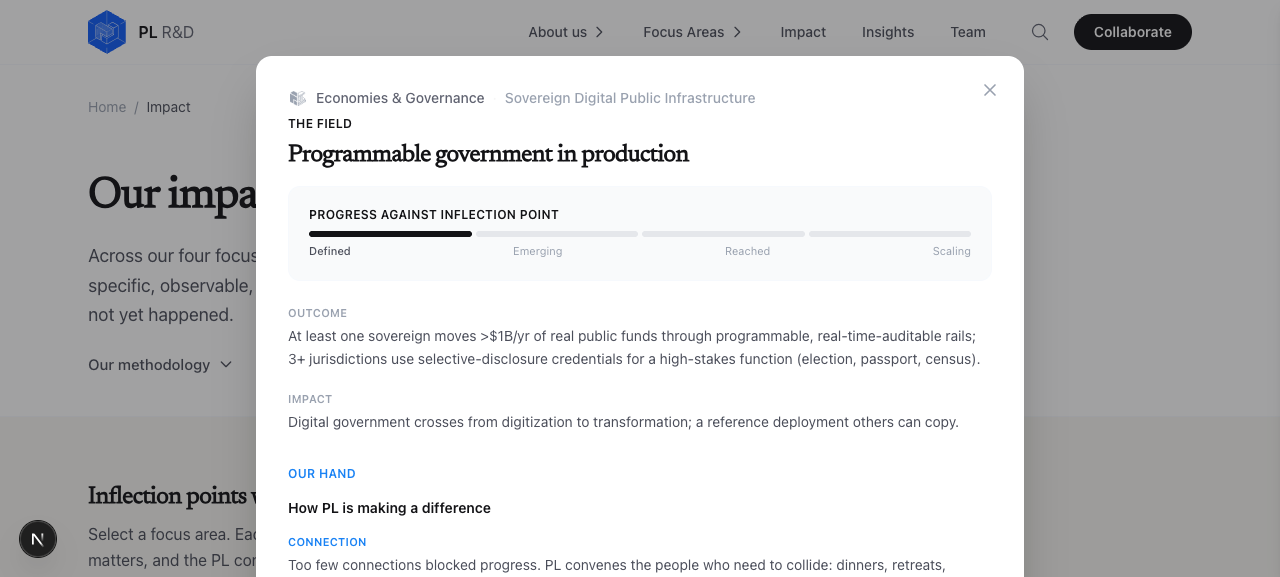
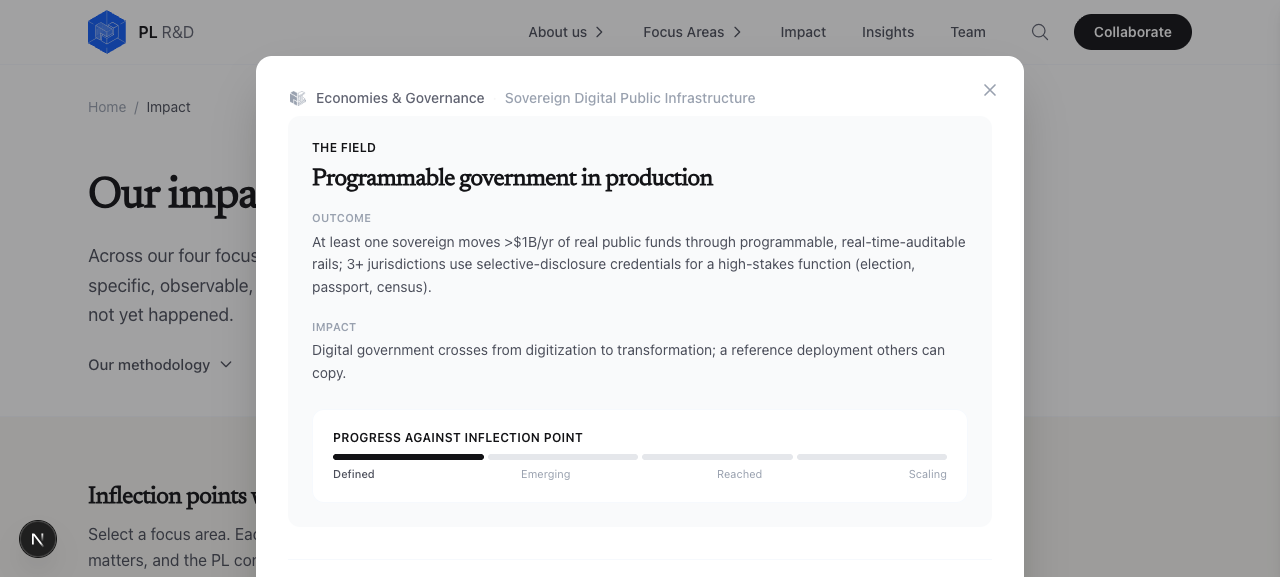
refactor(impact): reorder field, separate sections, restore PL role pills
- The field: move Outcome and Impact above the progress bar; wrap the whole
  field section in a subtle grey card for clear visual grouping.
- Add clear separation (top border + spacing) before Our hand and Live signal.
- Our hand: restore PL interventions as pills with the definition on hover
  (RoleChips), and show the point's actual activities / examples underneath
  ('In practice') instead of the generic role definitions.

diff --git a/src/components/ImpactDashboard.tsx b/src/components/ImpactDashboard.tsx
@@ -433,48 +433,48 @@ function InflectionModal({
             <span className="text-gray-300">·</span>
             <span className="text-gray-400">{point.opportunitySpace}</span>
           </div>
-          {/* THE FIELD — title, progress, outcome, impact */}
-          <div className="mb-2 text-xs font-semibold uppercase tracking-wide" style={{ color: FIELD_COLOR }}>
-            The field
-          </div>
-          <h2 className="mb-4 text-2xl font-semibold leading-tight tracking-tight text-black">
-            {point.title}
-          </h2>
-          <div className="mb-6 rounded-xl border border-gray-200 bg-gray-50 p-5">
+          {/* THE FIELD — title, outcome, impact, then progress (grey card) */}
+          <div className="rounded-xl bg-gray-50 p-5 sm:p-6">
             <div className="mb-2 text-xs font-semibold uppercase tracking-wide" style={{ color: FIELD_COLOR }}>
-              Progress against Inflection Point
+              The field
             </div>
-            <FieldMeter status={point.status} />
-          </div>
-          <div className="mb-8 space-y-5">
-            <div>
-              <div className="mb-1 text-[11px] font-semibold uppercase tracking-wide text-gray-400">Outcome</div>
-              <p className="text-sm leading-relaxed text-gray-600">{point.signal}</p>
+            <h2 className="mb-4 text-2xl font-semibold leading-tight tracking-tight text-black">
+              {point.title}
+            </h2>
+            <div className="mb-6 space-y-5">
+              <div>
+                <div className="mb-1 text-[11px] font-semibold uppercase tracking-wide text-gray-400">Outcome</div>
+                <p className="text-sm leading-relaxed text-gray-600">{point.signal}</p>
+              </div>
+              <div>
+                <div className="mb-1 text-[11px] font-semibold uppercase tracking-wide text-gray-400">Impact</div>
+                <p className="text-sm leading-relaxed text-gray-600">{point.cascade}</p>
+              </div>
             </div>
-            <div>
-              <div className="mb-1 text-[11px] font-semibold uppercase tracking-wide text-gray-400">Impact</div>
-              <p className="text-sm leading-relaxed text-gray-600">{point.cascade}</p>
+            <div className="rounded-xl border border-gray-200 bg-white p-5">
+              <div className="mb-2 text-xs font-semibold uppercase tracking-wide" style={{ color: FIELD_COLOR }}>
+                Progress against Inflection Point
+              </div>
+              <FieldMeter status={point.status} />
             </div>
           </div>
 
-          {/* OUR HAND — contribution categories as headers */}
-          <div className="mb-4 text-xs font-semibold uppercase tracking-wide" style={{ color: HAND_COLOR }}>
-            Our hand
-          </div>
-          <div className="mb-4 text-sm font-semibold text-black">How PL is making a difference</div>
-          <div className="space-y-4">
-            {PL_ROLE_ORDER.filter((r) => point.roles.includes(r)).map((r) => (
-              <div key={r}>
-                <div className="mb-1 text-[11px] font-semibold uppercase tracking-wide" style={{ color: HAND_COLOR }}>
-                  {ROLE_META[r].label}
-                </div>
-                <p className="text-sm leading-relaxed text-gray-600">{ROLE_META[r].description}</p>
-              </div>
-            ))}
+          {/* OUR HAND — PL intervention pills (definition on hover) + real examples */}
+          <div className="mt-8 border-t border-gray-200 pt-8">
+            <div className="mb-2 text-xs font-semibold uppercase tracking-wide" style={{ color: HAND_COLOR }}>
+              Our hand
+            </div>
+            <div className="mb-4 text-sm font-semibold text-black">How PL is making a difference</div>
+            <RoleChips roles={point.roles} eyebrow={false} />
+            <div className="mt-5">
+              <div className="mb-1 text-[11px] font-semibold uppercase tracking-wide text-gray-400">In practice</div>
+              <p className="text-sm leading-relaxed text-gray-600">{point.contribution.activities}</p>
+              <p className="mt-2 text-sm leading-relaxed text-gray-500">{point.contribution.outputs}</p>
+            </div>
           </div>
 
           {/* Full-width Live-signal band: PL-backed live outputs (Q3) + crowd forecast (field axis). */}
-          <div className="mt-6 border-t border-gray-100 pt-5">
+          <div className="mt-8 border-t border-gray-200 pt-8">
             {(point.liveEvidence || (signal && signal.match !== 'gap')) && (
               <div className="mb-4 rounded-xl border border-gray-200 bg-white p-4">
                 <div className="mb-3 flex items-center gap-1.5 text-[11px] font-semibold uppercase tracking-wide text-gray-400">